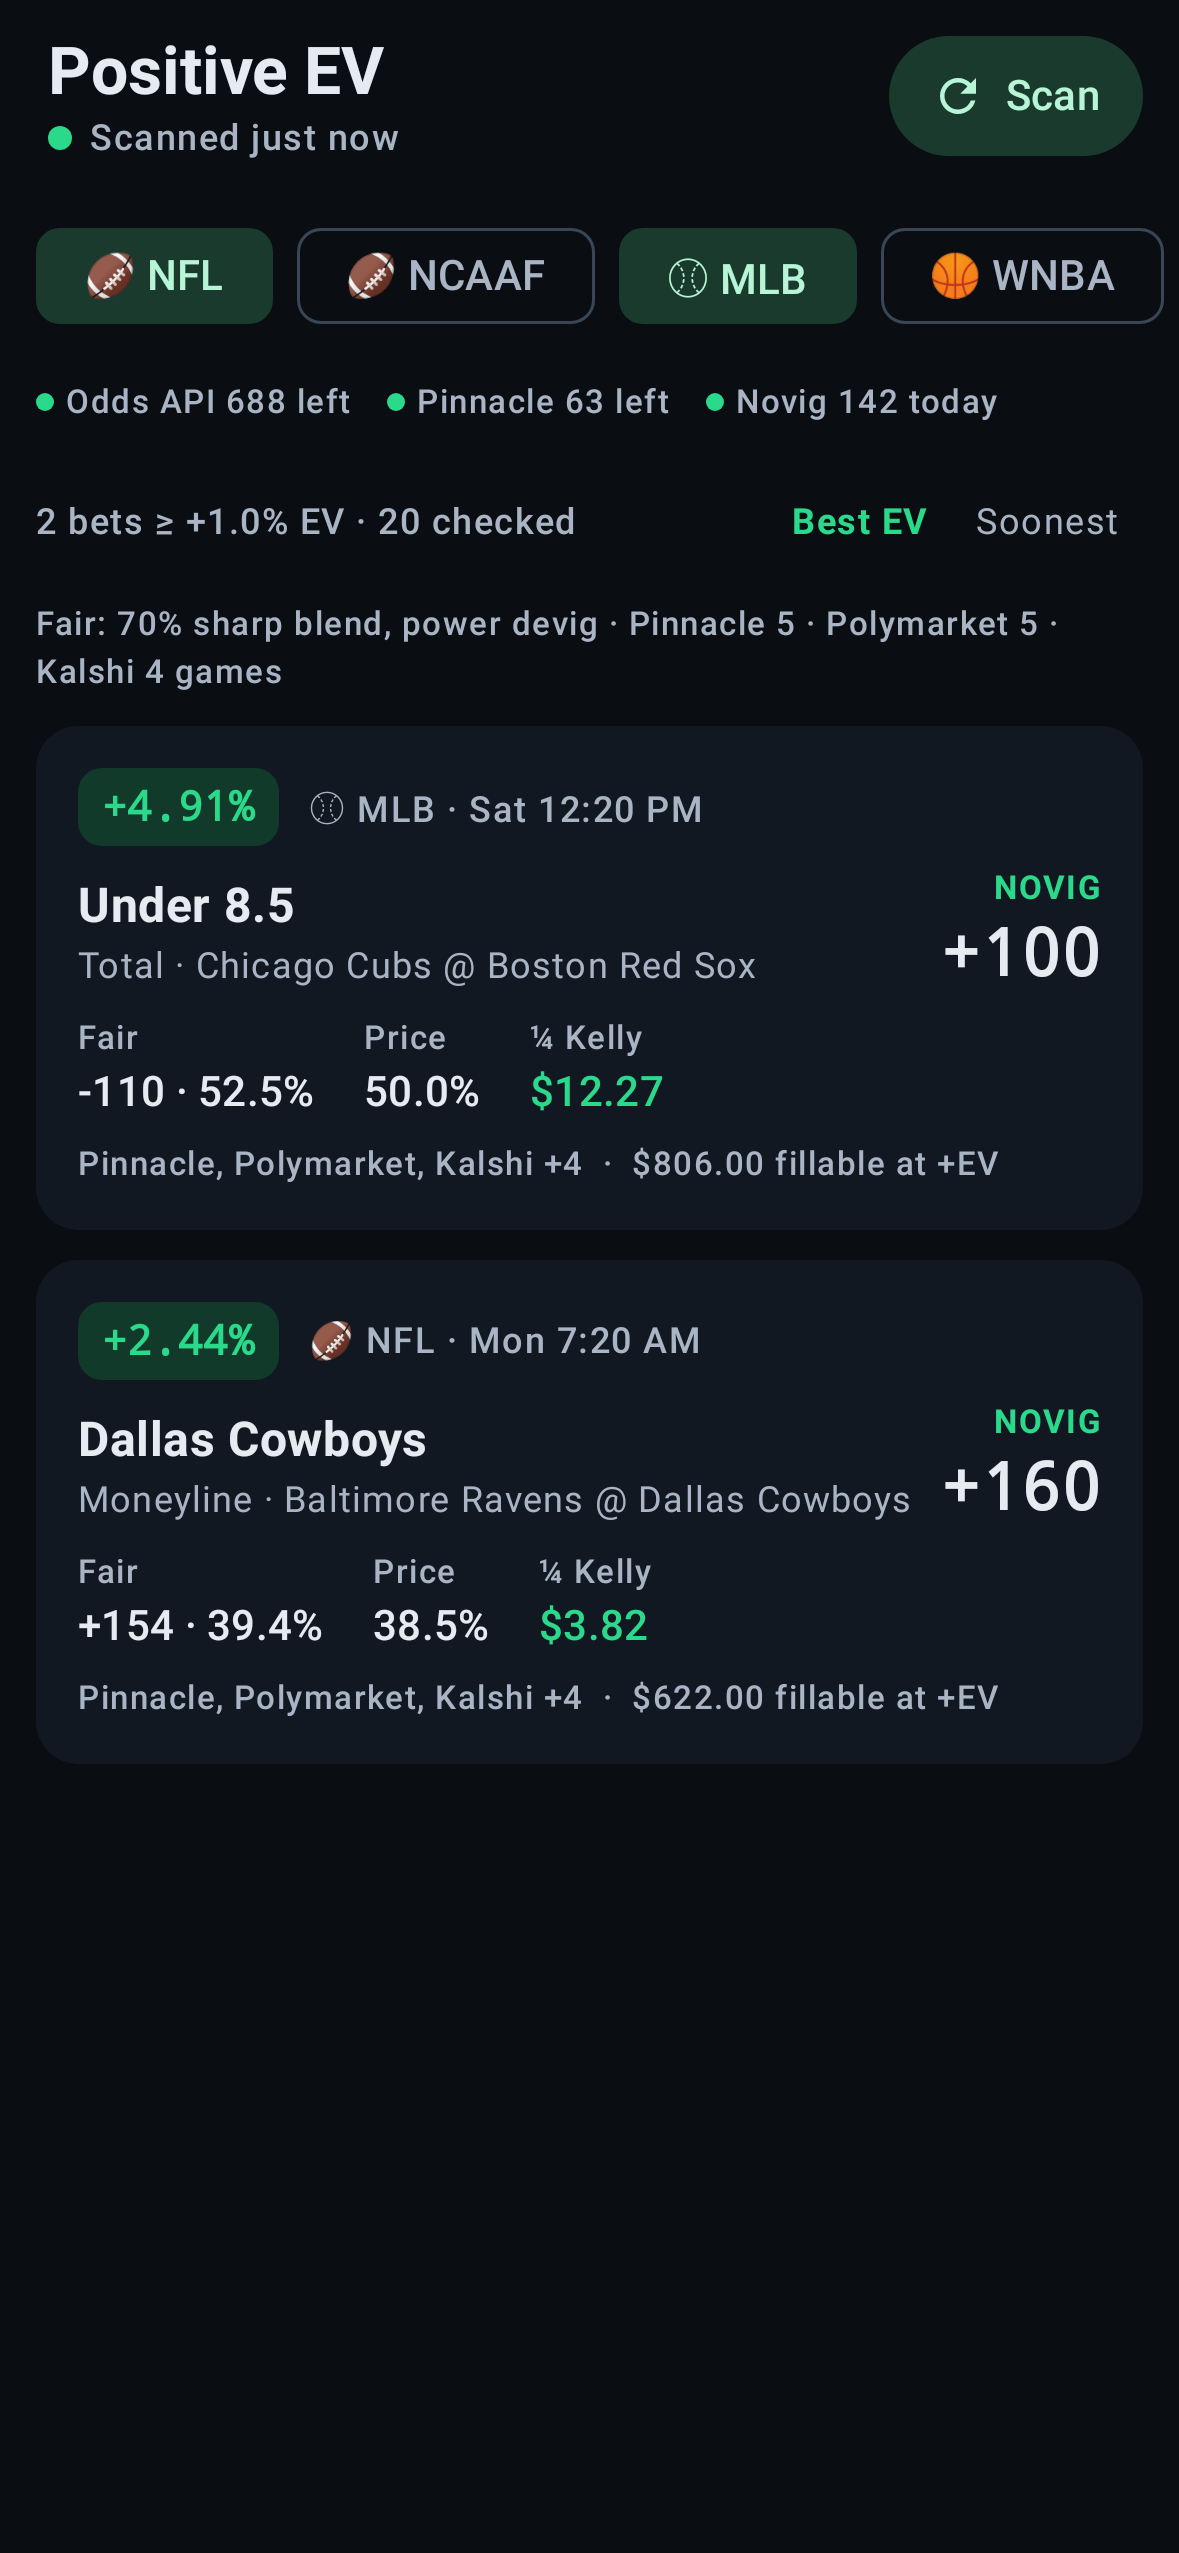
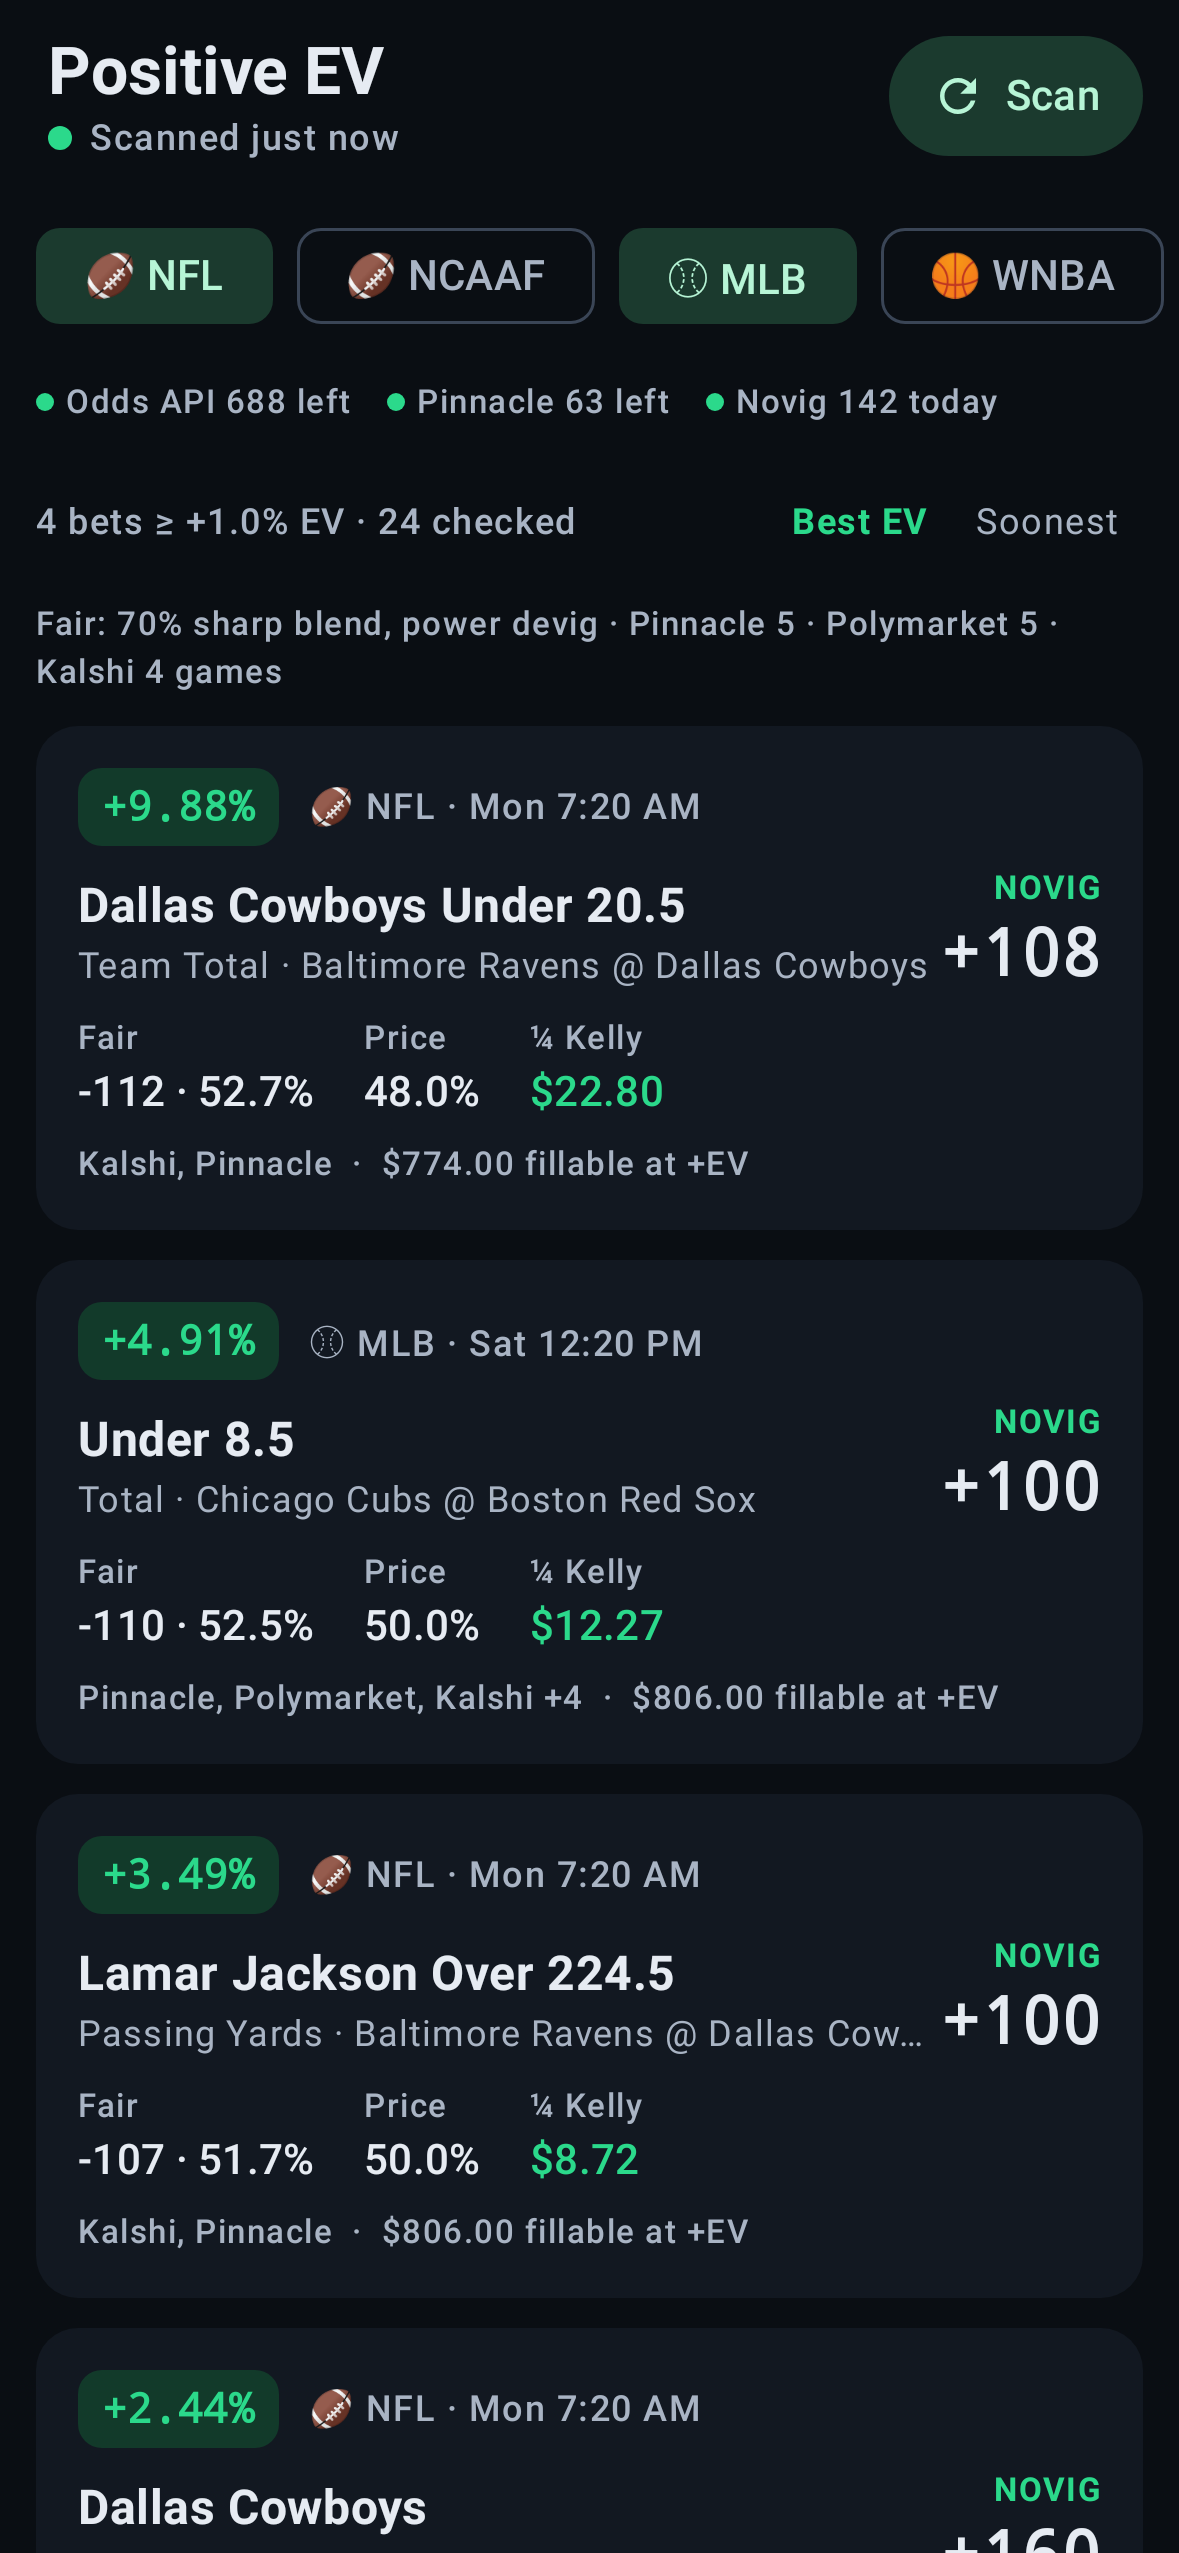
auto-checkpoint: 2026-09-25T15:58:03Z
Automatic hook checkpoint — not a reviewed commit. See CHECKPOINT.md
for where the session actually stands.

diff --git a/app/src/test/kotlin/com/tjshea/vigilant/app/SampleScan.kt b/app/src/test/kotlin/com/tjshea/vigilant/app/SampleScan.kt
@@ -91,6 +91,20 @@ object SampleScan {
 
     private fun sportKey(league: String) = if (league == "NFL") "americanfootball_nfl" else "baseball_mlb"
 
+    /** An over/under on one team or player for game [id], quoted by Kalshi and Pinnacle. */
+    private fun overUnder(id: String, type: String, description: String, line: Double, bids: Pair<Int, Int>, kalshi: Pair<Double, Double>, kind: LineKind, subject: String, stat: String? = null) {
+        val mid = "$id-$type-$line"
+        market(mid, id, type, events.first { it.eventId == id }.startsTs, "$mid-o" to "Over ${Planner.fmt(line)}", "$mid-u" to "Under ${Planner.fmt(line)}")
+            .let { markets[markets.indexOf(it)] = it.copy(description = description) }
+        book(mid, "$mid-o", bids.first, "$mid-u", bids.second)
+        val list = refs.getValue("americanfootball_nfl")
+        val i = list.indexOfFirst { it.id == "r-$id" }
+        val extra = listOf("kalshi" to "Kalshi", "pinnacle" to "Pinnacle").mapIndexed { n, (key, title) ->
+            RefBookMarket(key, title, kind, listOf(RefQuote(Side.OVER, kalshi.first + n * 0.02, line), RefQuote(Side.UNDER, kalshi.second - n * 0.02, line)), NOW - 3 * 60_000, 0, subject, stat)
+        }
+        list[i] = list[i].copy(markets = list[i].markets + extra)
+    }
+
     init {
         game("NFL", "FOOTBALL", "g1", "Baltimore Ravens", "Dallas Cowboys", "BAL", "DAL", NOW + 50 * HOUR,
             mlBids = 380 to 615, refMl = 2.45 to 1.62,
@@ -101,6 +115,8 @@ object SampleScan {
             mlBids = 440 to 545, refMl = 2.20 to 1.72, total = Triple(44.5, 480 to 505, 1.95 to 1.92))
         game("MLB", "BASEBALL", "g4", "Chicago Cubs", "Boston Red Sox", "CHC", "BOS", NOW + 7 * HOUR,
             mlBids = 490 to 495, refMl = 1.98 to 1.90, total = Triple(8.5, 500 to 475, 2.02 to 1.84))
+        overUnder("g1", "PASSING_YARDS", "Lamar Jackson 224.5 PASSING_YARDS", 224.5, 455 to 500, 1.87 to 2.02, LineKind.PLAYER_PROP, "Lamar Jackson", "PASSING_YARDS")
+        overUnder("g1", "TEAM_TOTAL", "Dallas Cowboys 20.5 TEAM_TOTAL", 20.5, 520 to 470, 2.02 to 1.84, LineKind.TEAM_TOTAL, RefBookMarket.HOME)
         game("MLB", "BASEBALL", "g5", "Baltimore Orioles", "New York Yankees", "BAL", "NYY", NOW + 6 * HOUR,
             mlBids = 560 to 430, refMl = 1.70 to 2.25)
     }
